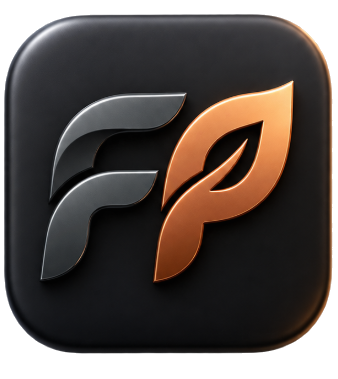
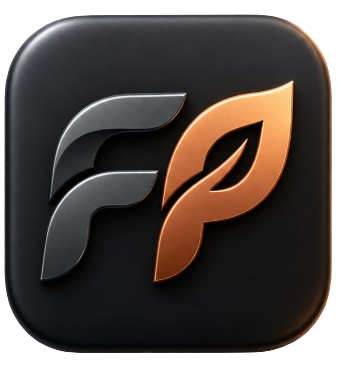
feat(branding): atualizar icones com as novas imagens recortadas pelo usuario com transparencia real

diff --git a/public/index.html b/public/index.html
@@ -25,7 +25,7 @@
   <!-- Top Navigation — Whisper Quiet -->
   <header class="site-header">
     <a href="#" class="brand-logo" onclick="app.navigate('dashboard'); return false;">
-      <img src="icons/logo-symbol-transparent.png" alt="Finance Plan" class="brand-logo-img" id="brandLogoImg" style="height: 28px; width: auto; object-fit: contain;">
+      <img src="icons/icon-dark.png" alt="Finance Plan" class="brand-logo-img" id="brandLogoImg" style="width: 32px; height: 32px; object-fit: contain;">
       <span class="brand-logo-text">Finance Plan</span>
     </a>
 
@@ -49,7 +49,7 @@
     <!-- ==================== TELA DE AUTENTICAÇÃO (HERO EDITORIAL) ==================== -->
     <section id="authSection" class="auth-hero-section">
       <div style="text-align: center; margin-bottom: 24px;">
-        <img src="images/logo-horizontal-transparent.png" alt="Finance Plan Logo" id="authLogoImg" style="max-height: 90px; width: auto; object-fit: contain; display: inline-block;">
+        <img src="icons/icon-dark.png" alt="Finance Plan Logo" id="authLogoImg" style="width: 88px; height: 88px; object-fit: contain; display: inline-block;">
       </div>
       <h1 class="auth-headline font-serif">
         Suas finanças pessoais, <span class="serif-italic">pensadas com clareza.</span>

diff --git a/public/js/app.js b/public/js/app.js
@@ -96,13 +96,12 @@ const app = {
   },
 
   applyTheme() {
-    const symbolSrc = this.isDarkMode ? 'icons/logo-symbol-darkmode.png' : 'icons/logo-symbol-transparent.png';
-    const authLogoSrc = this.isDarkMode ? 'images/logo-horizontal-darkmode.png' : 'images/logo-horizontal-transparent.png';
+    const iconSrc = this.isDarkMode ? 'icons/icon-dark.png' : 'icons/icon-light.png';
     
     const headerLogo = document.getElementById('brandLogoImg');
-    if (headerLogo) headerLogo.src = symbolSrc;
+    if (headerLogo) headerLogo.src = iconSrc;
     const authLogo = document.getElementById('authLogoImg');
-    if (authLogo) authLogo.src = authLogoSrc;
+    if (authLogo) authLogo.src = iconSrc;
 
     if (this.isDarkMode) {
       document.documentElement.setAttribute('data-theme', 'dark');
